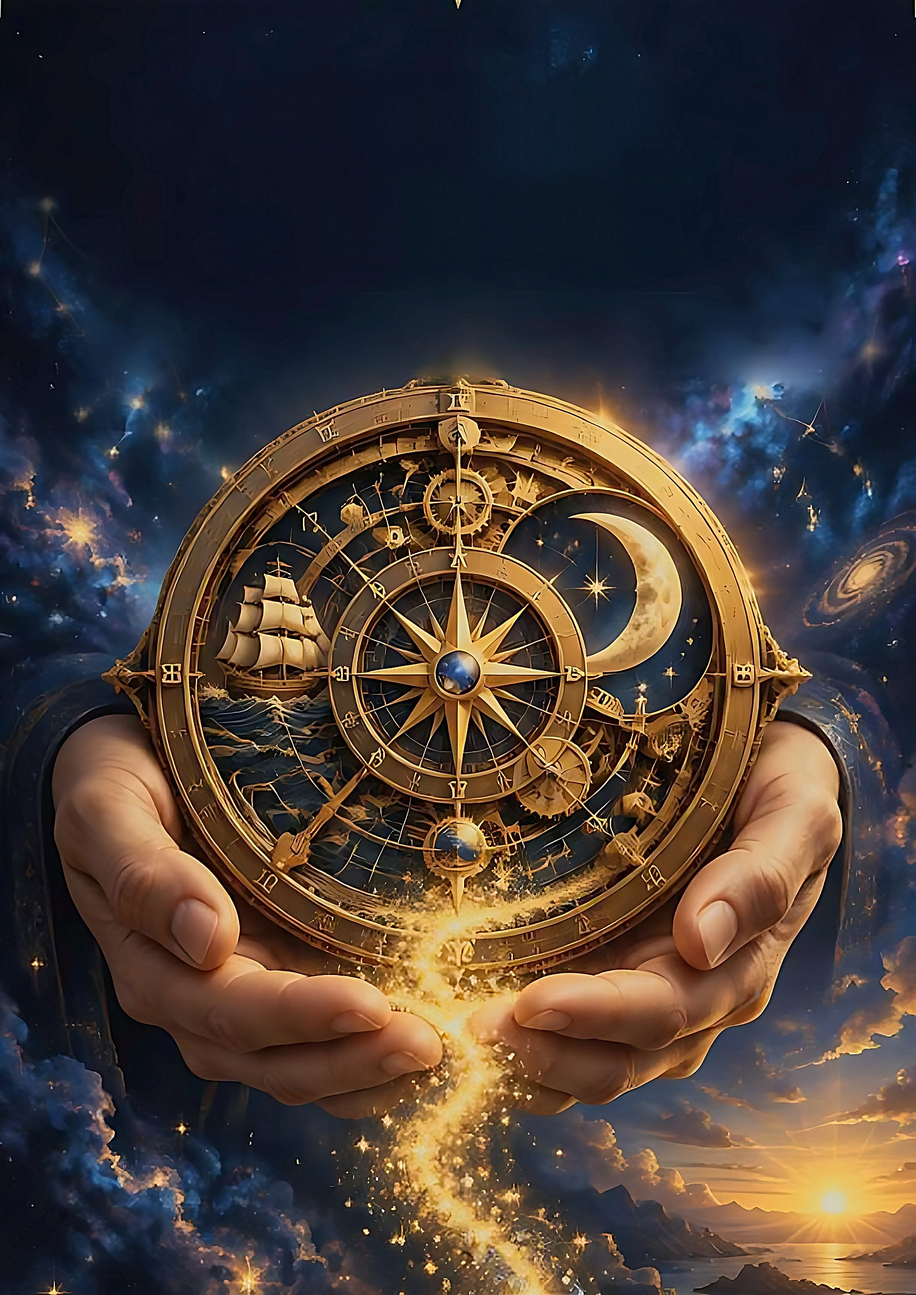
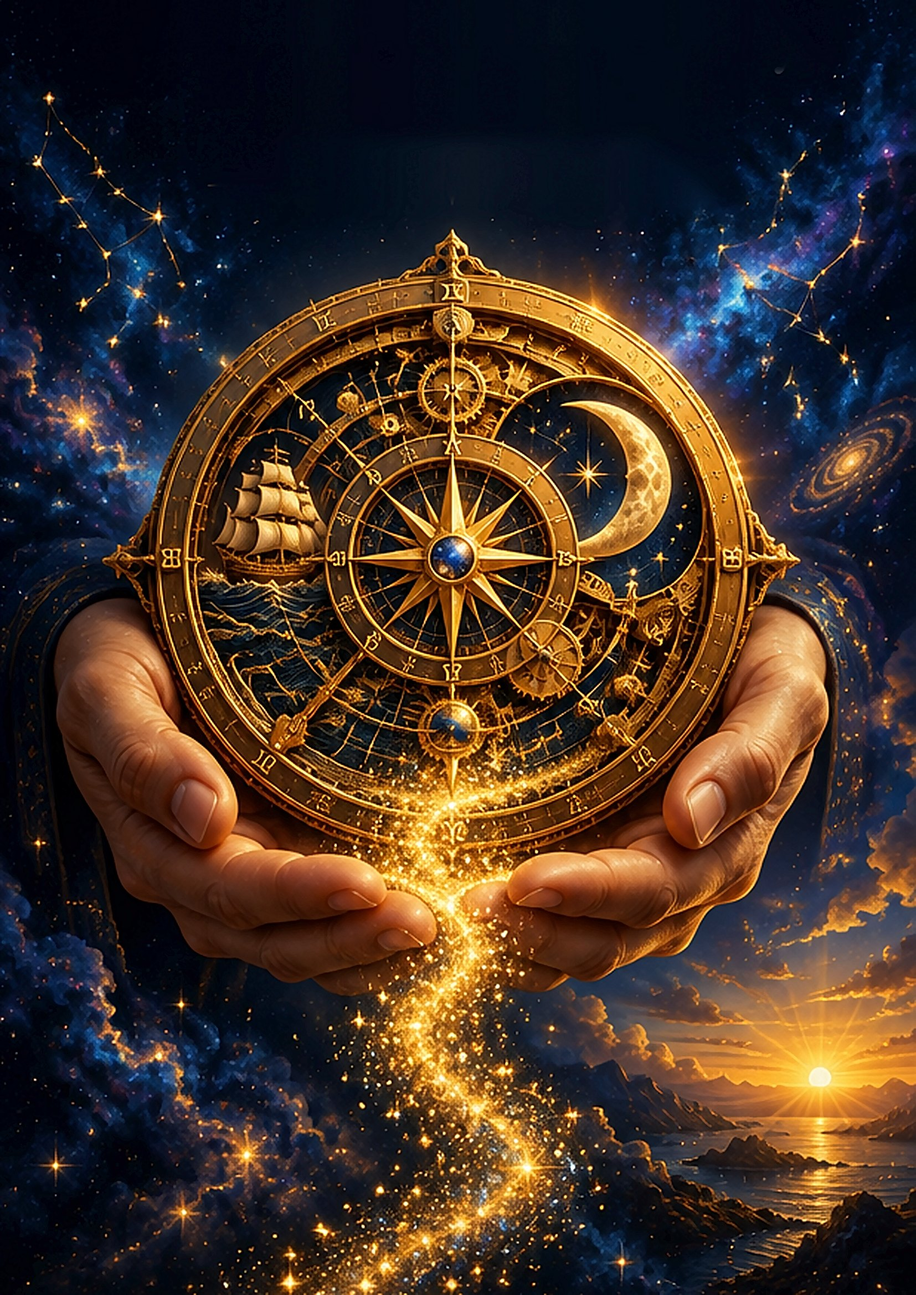
Round 3d: chapters 1, 4, 7 rebuilt from the original artwork (crisp), titles painted out, live titles
Claude-Session: https://claude.ai/code/session_01TajgMe4WgAiLq68tE4NK1s

diff --git a/tools/use_originals.py b/tools/use_originals.py
@@ -1,0 +1,53 @@
+#!/usr/bin/env python3
+"""Rebuild chapter openers from the ORIGINAL artwork (art_originals/chNN_original.png).
+
+The 4K versions of some openers lost fine detail (arcs, constellations); the originals are the faithful art.  Each original
+carries a gold double frame and a baked title: the frame is cropped away, the page-shaped crop is scaled to the A4 page
+(1654 x 2339), the title is painted out (the report prints it live) and the picture is cleaned.
+
+    python tools/use_originals.py            # rebuilds the chapters listed in SPEC
+"""
+from __future__ import annotations
+
+import json
+import sys
+from pathlib import Path
+
+import numpy as np
+from PIL import Image
+
+sys.path.insert(0, str(Path(__file__).resolve().parent))
+import art_clean                                                    # noqa: E402
+
+ROOT = Path(__file__).resolve().parent.parent
+PAGE = (1654, 2339)
+# crop = (x0, y0, x1, y1) inside the frame, in original pixels; erase = rectangles in PAGE pixels that held the title;
+# box = where the live title is printed (page px, x0 y0 x1 y1 - only y0 is used)
+SPEC = {
+    1: dict(crop=(39, 100, 657, 975), erase=[(250, 0, 1420, 350)], passes=2, box=[555, 100, 1099, 300], amount=0.8),
+    4: dict(crop=(39, 100, 657, 975), erase=[(150, 0, 1500, 135), (380, 125, 1300, 372)], passes=2, box=[486, 90, 1168, 300], amount=0.8),
+    7: dict(crop=(95, 130, 1953, 2757), erase=[(0, 90, 1654, 532)], vertical=True, box=[453, 169, 1275, 405], amount=0.6),
+}
+
+
+def main() -> int:
+    titles_path = ROOT / "report" / "data" / "chapter_titles.json"
+    titles = json.loads(titles_path.read_text(encoding="utf-8"))
+    for n, s in SPEC.items():
+        src = ROOT / "art_originals" / f"ch{n:02d}_original.png"
+        im = Image.open(src).convert("RGB").crop(s["crop"]).resize(PAGE, Image.LANCZOS)
+        rgb = np.array(im)
+        for _ in range(s.get("passes", 1)):
+            for (x0, y0, x1, y1) in s["erase"]:
+                rgb = (art_clean.fill_vertical if s.get("vertical") else art_clean._fill_rect)(rgb, x0, y0, x1, y1, feather=40)
+        out = art_clean.sharpen(Image.fromarray(rgb), amount=s["amount"])
+        dest = ROOT / "report" / "static" / "img" / "chapters" / f"ch{n:02d}.jpg"
+        out.save(dest, "JPEG", quality=86, optimize=True, progressive=True)
+        titles[f"{n:02d}"] = s["box"]
+        print(f"ch{n:02d}: {dest.stat().st_size // 1024} KB")
+    titles_path.write_text(json.dumps(titles, indent=1), encoding="utf-8")
+    return 0
+
+
+if __name__ == "__main__":
+    sys.exit(main())

diff --git a/tools/art_clean.py b/tools/art_clean.py
@@ -51,6 +51,31 @@ def _fill_rect(rgb: np.ndarray, x0: int, y0: int, x1: int, y1: int, feather: int
     return (rgb * (1 - soft) + big * soft).astype(np.uint8)
 
 
+def fill_vertical(rgb: np.ndarray, x0: int, y0: int, x1: int, y1: int, feather: int = 36) -> np.ndarray:
+    """Replace a rectangle by a smooth top-to-bottom blend of the (heavily smoothed) rows just above and just below it.
+    Right where a glow rises into the rectangle from below, this carries the glow up and fades it, instead of streaking."""
+    H, W = rgb.shape[:2]
+    x0, y0, x1, y1 = max(0, x0), max(0, y0), min(W, x1), min(H, y1)
+    a = rgb.astype(np.float32)
+    def band(ya, yb):
+        b = np.median(a[ya:yb, :, :], axis=0)                       # (W, 3)
+        return cv2.GaussianBlur(b[None], (0, 0), 70)[0]
+    top, bot = band(max(0, y0 - 40), max(1, y0 - 6)), band(y1 + 6, y1 + 40)
+    bot = np.minimum(bot, top + 10)                                  # do not pull a glow from below up into the sky
+    t = np.clip((np.linspace(0, 1, y1 - y0, dtype=np.float32) - 0.72) / 0.28, 0, 1)[:, None, None]
+    t = t * t * (3 - 2 * t)                                          # flat sky, easing into the picture only at the lower edge
+    fill = top[None] * (1 - t) + bot[None] * t
+    fill = fill + np.random.default_rng(5).normal(0, 1.5, fill.shape).astype(np.float32)
+    mask = np.zeros((H, W), np.float32)
+    mask[y0:y1, x0:x1] = 1
+    if x0 == 0: mask[y0:y1, :feather] = 1
+    soft = cv2.GaussianBlur(mask, (0, 0), feather / 2.5)[..., None]
+    soft[y0:y1, :6] = np.maximum(soft[y0:y1, :6], mask[y0:y1, :6, None])
+    full = a.copy()
+    full[y0:y1] = fill
+    return np.clip(a * (1 - soft) + full * soft, 0, 255).astype(np.uint8)
+
+
 def erase_title(img: Image.Image, pad: int = 34, extra=(0, 0)):
     """Paint the baked title out.  Returns (clean image, (x0, y0, x1, y1) of the removed block or None)."""
     rgb = np.array(img.convert("RGB"))
